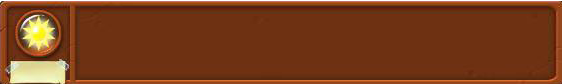
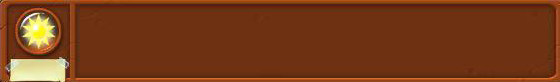
NEW VISUAL

Changed region(s): [[0.0, 0.0, 1.0, 0.9512], [0.0, 0.7073, 0.1214, 0.7805]]

diff --git a/src/src/manager/BarManager.java b/src/src/manager/BarManager.java
@@ -33,21 +33,21 @@ public class BarManager {
 
     private void initButtons() {
         pickPlant = new MyButtons[5];
-        pickPlant[0] = new MyButtons("Sunflower", 475, 5, 90, 90);
-        pickPlant[1] = new MyButtons("Peashooter", 565, 5, 90, 90);
-        pickPlant[2] = new MyButtons("Wall-nut", 655, 5, 90, 90);
-        pickPlant[3] = new MyButtons("Snow Pea", 745, 5, 90, 90);
-        pickPlant[4] = new MyButtons("Cherry Bomb", 835, 5, 90, 90);
+        pickPlant[0] = new MyButtons("Sunflower", 465, 20, 80, 70);
+        pickPlant[1] = new MyButtons("Peashooter", 560, 20, 80, 70);
+        pickPlant[2] = new MyButtons("Wall-nut", 655, 20, 80, 70);
+        pickPlant[3] = new MyButtons("Shadow peashooter", 750, 20, 80, 70);
+        pickPlant[4] = new MyButtons("Cherry Bomb", 845, 20, 80, 70);
     }
 
     private void importImg(){
         pick_plantBar = new Image[5];
         try {
-            pick_plantBar[0] = t.getImage(getClass().getResource("/plantBar/PvZ_Sunflower.jpg"));
-            pick_plantBar[1] = t.getImage(getClass().getResource("/plantBar/PvZ_Peashooter.jpg"));
-            pick_plantBar[2] = t.getImage(getClass().getResource("/plantBar/PvZ_Wall-nut.jpg"));
-            pick_plantBar[3] = t.getImage(getClass().getResource("/plantBar/PvZ_Snow_Pea.jpg"));
-            pick_plantBar[4] = t.getImage(getClass().getResource("/plantBar/PvZ_Cherry_Bomb.jpg"));
+            pick_plantBar[0] = t.getImage(getClass().getResource("/plantBar/Sunflower.png"));
+            pick_plantBar[1] = t.getImage(getClass().getResource("/plantBar/Peashooter.png"));
+            pick_plantBar[2] = t.getImage(getClass().getResource("/plantBar/Wall-nut.png"));
+            pick_plantBar[3] = t.getImage(getClass().getResource("/plantBar/Shadow_Peashooter.png"));
+            pick_plantBar[4] = t.getImage(getClass().getResource("/plantBar/Cherry_Bomb.png"));
             framePlant = t.getImage(getClass().getResource("/plantBar/plantSelected.png"));
             plantBar = t.getImage(getClass().getResource("/plantBar/plantPanel.png"));
         }catch (Exception e){
@@ -70,32 +70,32 @@ public class BarManager {
 
     public void drawPlantbar(Graphics g){
         g.setColor(Color.black);
-        g.drawRect(400, 0,535,100);
+        g.drawRect(370, 10,580,90);
         g.setColor(Color.pink);
-        g.fillRect(400, 0, 535, 100);
-        g.drawImage(plantBar, 400, 0, 535, 100, null);
+        g.fillRect(370, 10, 580, 90);
+        g.drawImage(plantBar, 370, 10, 580, 90, null);
         Graphics2D g2d = (Graphics2D) g;
         int distance = 0;
         for (Image p : pick_plantBar){
-            g.drawImage(p, 475 + distance, 5, 90, 90, null);
+            g.drawImage(p, 465 + distance, 20, 80, 70, null);
             switch (plantPickedID){
                 case 0:
-                    g2d.drawImage(framePlant,475, 5, 90, 90, null);
+                    g2d.drawImage(framePlant,465, 20, 80, 70, null);
                     break;
                 case 1:
-                    g2d.drawImage(framePlant,475 + 90, 5, 90, 90, null);
+                    g2d.drawImage(framePlant,465 + 95, 20, 80, 70, null);
                     break;
                 case 2:
-                    g2d.drawImage(framePlant,475 + 180, 5, 90, 90, null);
+                    g2d.drawImage(framePlant,465 + 190, 20, 80, 70, null);
                     break;
                 case 3:
-                    g2d.drawImage(framePlant,475 + 270, 5, 90, 90, null);
+                    g2d.drawImage(framePlant,465 + 285, 20, 80, 70, null);
                     break;
                 case 4:
-                    g2d.drawImage(framePlant,475 + 360, 5, 90, 90, null);
+                    g2d.drawImage(framePlant,465 + 380, 20, 80, 70, null);
                     break;
             }
-            distance += 90;
+            distance += 95;
         }
     }
     public void sunFlower(){
@@ -131,7 +131,7 @@ public class BarManager {
             plantCD[2] = 600;
         }
     }
-    public void snowPea(){
+    public void shadowPea(){
         playing.getPlantManager().setIDhold(3);
         playing.getPlantManager().setHPhold(100);
         playing.getPlantManager().setATKhold(20);
@@ -165,7 +165,7 @@ public class BarManager {
                 wall_nut();
                 break;
             case 3:
-                snowPea();
+                shadowPea();
                 break;
             case 4:
                 cherryBomb();
@@ -326,11 +326,11 @@ public class BarManager {
     public void initPlantInCD(){
         plantInCD = new Image[5];
         try {
-            plantInCD[0] = t.getImage(getClass().getResource("/plantInCD/sunFolwer.png"));
-            plantInCD[1] = t.getImage(getClass().getResource("/plantInCD/peaShooter.png"));
-            plantInCD[2] = t.getImage(getClass().getResource("/plantInCD/wallNut.png"));
-            plantInCD[3] = t.getImage(getClass().getResource("/plantInCD/snowPea.png"));
-            plantInCD[4] = t.getImage(getClass().getResource("/plantInCD/cherryBomb.png"));
+            plantInCD[0] = t.getImage(getClass().getResource("/plantInCD/Sunflower.png"));
+            plantInCD[1] = t.getImage(getClass().getResource("/plantInCD/Peashooter.png"));
+            plantInCD[2] = t.getImage(getClass().getResource("/plantInCD/Wall-nut.png"));
+            plantInCD[3] = t.getImage(getClass().getResource("/plantInCD/Shadow_Peashooter.png"));
+            plantInCD[4] = t.getImage(getClass().getResource("/plantInCD/Cherry_Bomb.png"));
         } catch (Exception e){
 
         }
@@ -340,13 +340,13 @@ public class BarManager {
         Graphics2D g2d = (Graphics2D) g;
         for(int i = 0;i<5;i++){
             if(isPlantInCD[i]){
-                g.drawImage(plantInCD[i], 475 + distance, 5, 90, 90, null);
-                int cd = (plantCD[i]+40)/60;
+                g.drawImage(plantInCD[i], 465 + distance, 20, 80, 70, null);
+                int cd = (plantCD[i]+59)/60;
                 g2d.setColor(Color.YELLOW);
                 g2d.setFont(new Font("Arial",Font.BOLD,30));
-                g2d.drawString(String.format("%d",cd),510 + distance,55);
+                g2d.drawString(String.format("%d",cd),495 + distance,65);
             }
-            distance += 90;
+            distance += 95;
         }
     }
     public MyButtons[] getPickPlant() {

diff --git a/src/src/manager/TileManager.java b/src/src/manager/TileManager.java
@@ -8,21 +8,21 @@ import java.awt.*;
 
 public class TileManager {
     private Tile[] tiles = new Tile[45];
-    private int wTile = 70, hTile = 80;
+    private int wTile = 60, hTile = 70;
 
     public TileManager() {
         initTiles();
     }
 
     private void initTiles() {
-        int curX = 250, curY = 120, rowCounter = 0;
+        int curX = 300, curY = 171, rowCounter = 0;
         for (int i = 0; i < 45; i++) {
             if (rowCounter >= 9) {
-                curY += hTile + 15;
-                curX = 250;
+                curY += hTile + 10;
+                curX = 300;
                 rowCounter = 0;
             }
-            curX += (wTile + 8);
+            curX += (wTile + 10);
             tiles[i] = new Tile(new Rectangle(curX, curY, wTile, hTile));
             rowCounter++;
         }
@@ -30,7 +30,7 @@ public class TileManager {
 
     public void drawTiles(Graphics g, PlantManager plantManager) {
         for (Tile t : tiles) {
-            Rectangle r = new Rectangle(t.getCurX(), t.getCurY(), t.getwTile(), t.gethTile());
+            Rectangle r = t.getBound();
 //            for (int i = 0; i < plantManager.getPlantList().size(); i++) {
 //                    if (plantManager.isLocated()) {
 //                        g.drawImage(plantManager.getPlantImages(plantManager.getPlantList().get(i).getPlantID()), r.x, r.y, r.width, r.height, null);
@@ -40,6 +40,8 @@ public class TileManager {
 //                } else if (plantManager.getPlantList().get(i).getPlantID() == 1) {
 //                    g.drawImage(plantManager.getPlantImages(1), r.x, r.y, r.width, r.height, null);
 //                }
+//            g.setColor(Color.white);
+//            g.fillRect(r.x, r.y, r.width, r.height);
         }
     }
 

diff --git a/src/src/manager/ButtonManager.java b/src/src/manager/ButtonManager.java
@@ -16,8 +16,8 @@ public class ButtonManager {
     }
 
     private void initButtons() {
-        bStart = new MyButtons("Start", 0, 0, 145, 45);
-        bSetting = new MyButtons("Setting", 920, 585, 95, 35);
+        bStart = new MyButtons("Start", 10, 10, 140, 45);
+        bSetting = new MyButtons("Setting", 910, 580, 98, 35);
     }
 
     public void importImg(){
@@ -32,8 +32,8 @@ public class ButtonManager {
     }
 
     public void drawImg(Graphics g){
-        g.drawImage(buttonOfPlaying[0], 0,0,145,45, null);
-        g.drawImage(buttonOfPlaying[1], 920,585,95,35, null);
+        g.drawImage(buttonOfPlaying[0], 10,10,140,45, null);
+        g.drawImage(buttonOfPlaying[1], 910,580,98,35, null);
     }
 
     public void drawButtons(Graphics g) {

diff --git a/src/src/scenes/Playing.java b/src/src/scenes/Playing.java
@@ -104,8 +104,8 @@ public class Playing implements SceneMethods {
                     barManager.peaShooter();
                 } else if (b2.getText().contains("Wall-nut")) {
                     barManager.wall_nut();
-                } else if (b2.getText().contains("Snow Pea")) {
-                    barManager.snowPea();
+                } else if (b2.getText().contains("Shadow peashooter")) {
+                    barManager.shadowPea();
                 } else if (b2.getText().contains("Cherry Bomb")) {
                     barManager.cherryBomb();
                 }

diff --git a/src/src/manager/ZombieManager.java b/src/src/manager/ZombieManager.java
@@ -55,9 +55,9 @@ public class ZombieManager {
         synchronized (zombies) {
             System.out.println("a zombie created");
             if(!allZombieDead()) {
-                zombies.add(new Zombie(1024+rnd(0,1000), 60 + 95 * rnd(0,5), type));
+                zombies.add(new Zombie(1024+rnd(0,1000), 140 + 80 * rnd(0,5), type));
             } else {
-                zombies.add(new Zombie(1024, 60 + 95 * rnd(0,5), type));
+                zombies.add(new Zombie(1024, 140 + 78 * rnd(0,5), type));
             }
         }
     }

diff --git a/src/src/zombie/Zombie.java b/src/src/zombie/Zombie.java
@@ -8,7 +8,7 @@ import java.util.Iterator;
 
 public class Zombie {
     private int hp, dmg, type;
-    private final int width = 80, height = 140;
+    private final int width = 55, height = 110;
     private float spd = 0.8f;
     private boolean isCollided = false;
 
